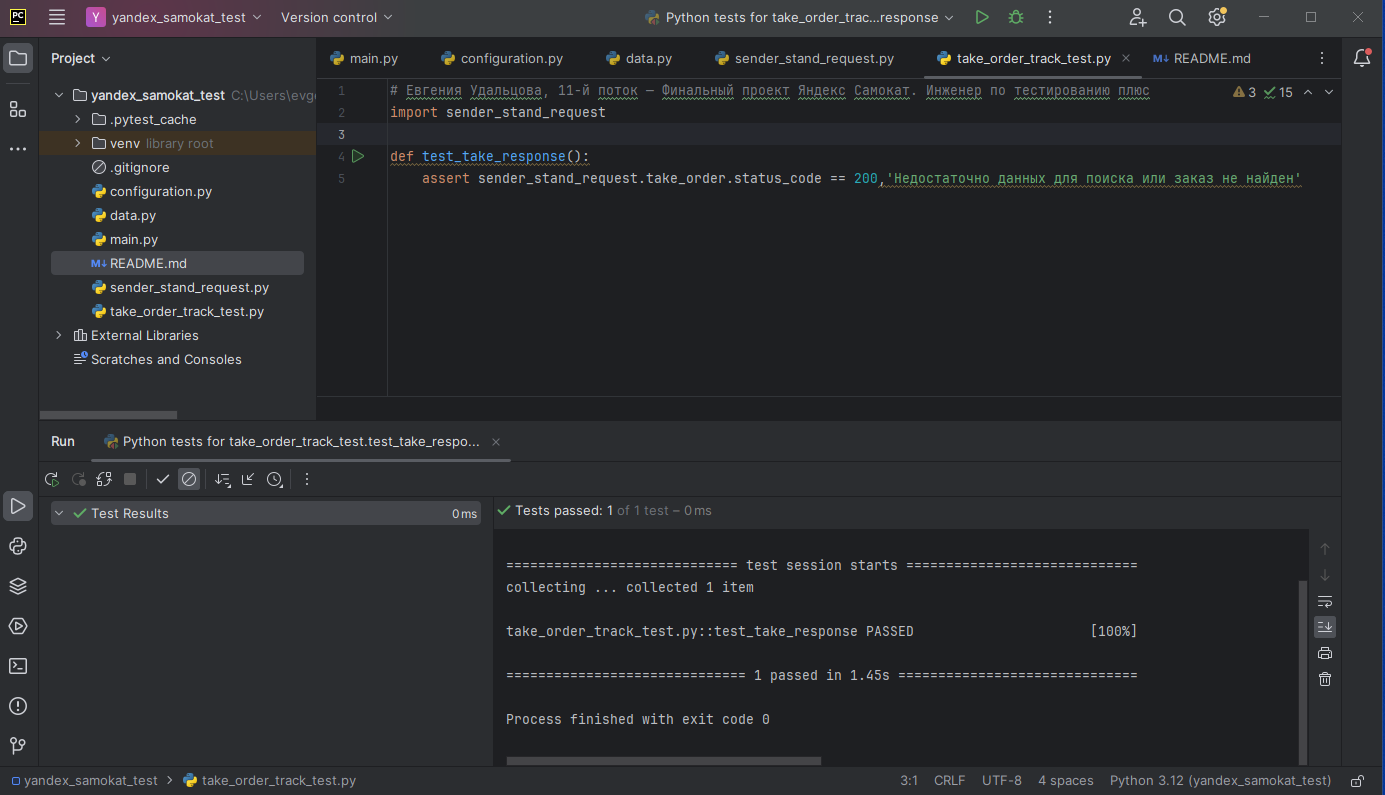
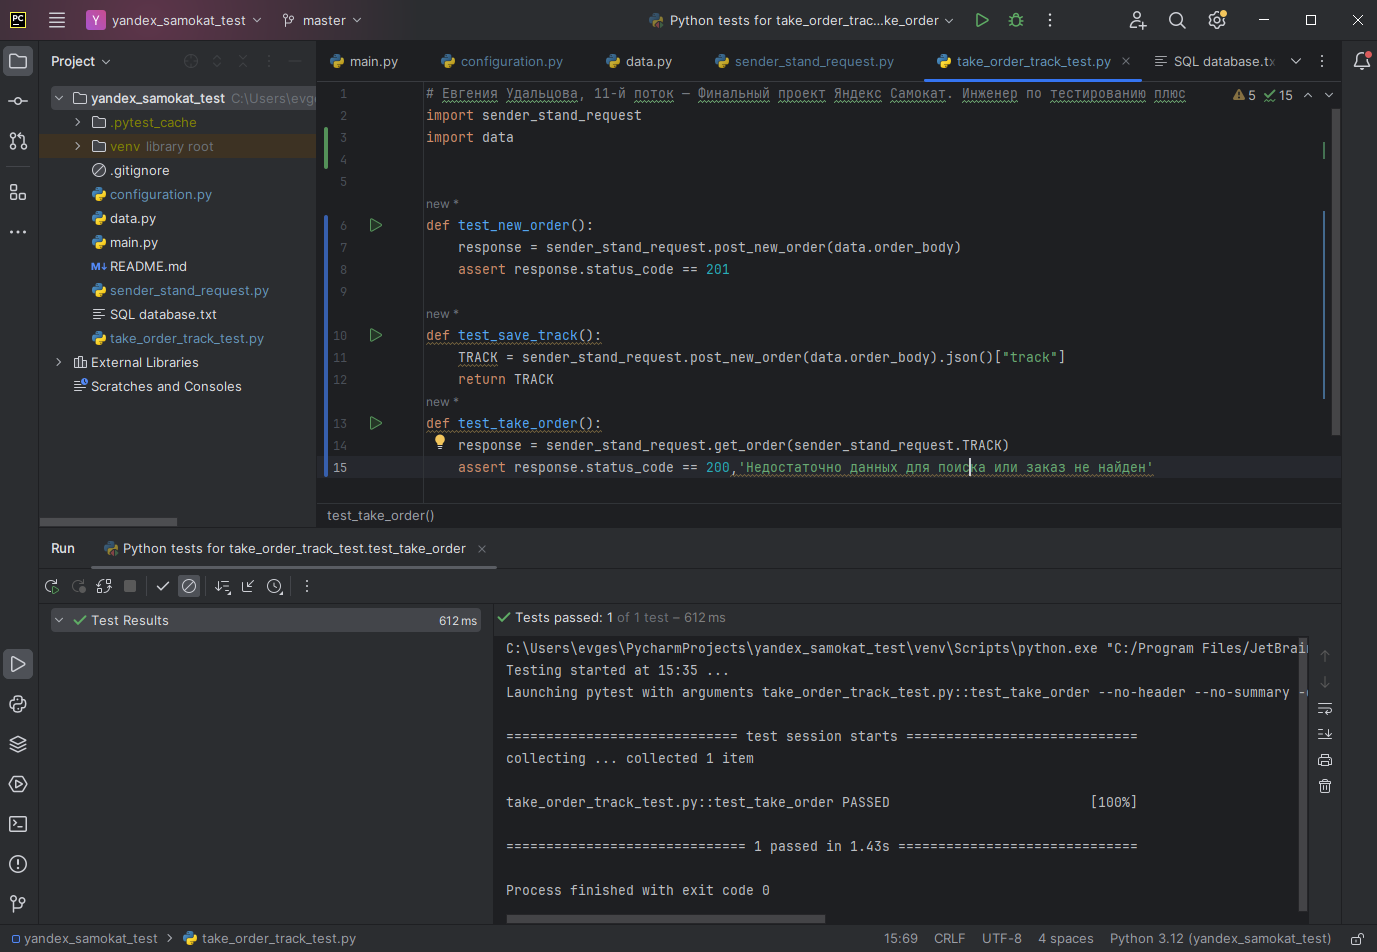
Vnesenie izmeneniy v avtotest

diff --git a/take_order_track_test.py b/take_order_track_test.py
@@ -1,5 +1,15 @@
 # Евгения Удальцова, 11-й поток — Финальный проект Яндекс Самокат. Инженер по тестированию плюс
 import sender_stand_request
+import data
 
-def test_take_response():
-    assert sender_stand_request.take_order.status_code == 200,'Недостаточно данных для поиска или заказ не найден'
+
+def test_new_order():
+    response = sender_stand_request.post_new_order(data.order_body)
+    assert response.status_code == 201
+
+def test_save_track():
+    TRACK = sender_stand_request.post_new_order(data.order_body).json()["track"]
+    return TRACK
+def test_take_order():
+    response = sender_stand_request.get_order(sender_stand_request.TRACK)
+    assert response.status_code == 200,'Недостаточно данных для поиска или заказ не найден'

diff --git a/sender_stand_request.py b/sender_stand_request.py
@@ -6,8 +6,7 @@ def post_new_order(body):
     return requests.post(configuration.URL_SERVICE + configuration.CREATE_ORDER,
                          json=body)
 
-response = post_new_order(data.order_body);
+TRACK = post_new_order(data.order_body).json()["track"]
 
-TRACK = response.json()["track"]
-
-take_order = requests.get(configuration.URL_SERVICE + configuration.TAKE_ORDER_TRACK, TRACK)
+def get_order(track):
+    return requests.get(configuration.URL_SERVICE + configuration.TAKE_ORDER_TRACK + str(track))

diff --git a/configuration.py b/configuration.py
@@ -1,3 +1,3 @@
-URL_SERVICE = "https://367df96c-ab9a-414b-a867-11ac1a9bf655.serverhub.praktikum-services.ru"
+URL_SERVICE = "https://5a40e788-08f5-4e4d-9bb7-49b9d033e5a2.serverhub.praktikum-services.ru"
 CREATE_ORDER = "/api/v1/orders"
 TAKE_ORDER_TRACK = "/v1/orders/track?t="
